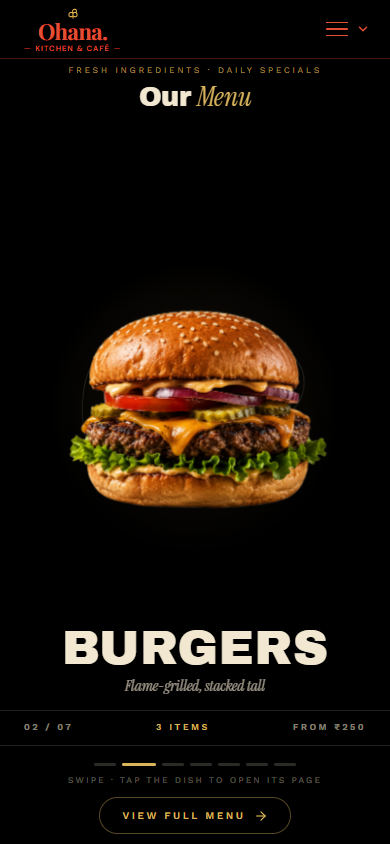
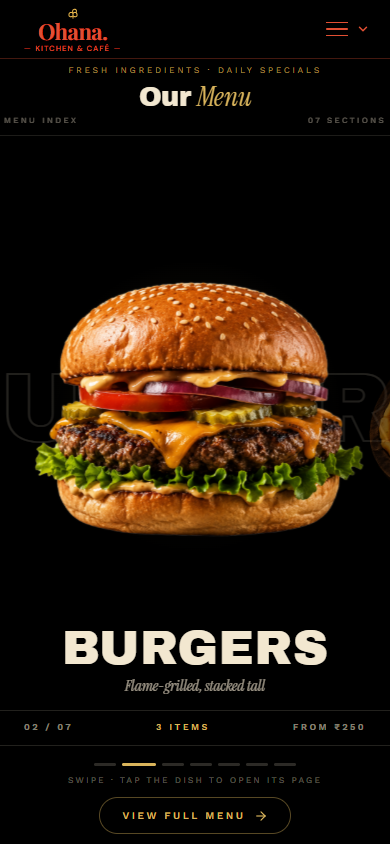
hero section snap improved

diff --git a/src/components/Hero/Hero.jsx b/src/components/Hero/Hero.jsx
@@ -212,10 +212,10 @@ export default function Hero() {
     setMIdx(clamped);
     const w = mStageRef.current?.clientWidth ?? 1;
     if (mTrackRef.current) {
-      gsap.to(mTrackRef.current, { x: trackXFor(clamped, w), rotation: 0, duration: 0.7, ease: 'expo.out' });
+      gsap.to(mTrackRef.current, { x: trackXFor(clamped, w), rotation: 0, duration: 0.6, ease: 'expo.out', overwrite: 'auto' });
     }
     if (mGhostRef.current) {
-      gsap.to(mGhostRef.current, { x: 0, duration: 0.7, ease: 'expo.out' });
+      gsap.to(mGhostRef.current, { x: 0, duration: 0.6, ease: 'expo.out', overwrite: 'auto' });
     }
     // The docked hero cup IS the coffee dish — it only steps aside
     // when the user pages away from coffee, and returns on page-back.
@@ -230,20 +230,44 @@ export default function Hero() {
   }, []);
 
   const onStageDown = (e) => {
-    mDrag.current = { down: true, startX: e.clientX, dx: 0, moved: false };
+    mDrag.current = { down: true, startX: e.clientX, startY: e.clientY, lastY: e.clientY, dx: 0, axis: null, moved: false };
+    // Keep every move event flowing to the stage even if the finger
+    // strays outside it — without this the drag stutters and snaps.
+    try { e.currentTarget.setPointerCapture(e.pointerId); } catch { /* noop */ }
   };
   const onStageMove = (e) => {
-    if (!mDrag.current.down) return;
-    const dx = e.clientX - mDrag.current.startX;
-    mDrag.current.dx = dx;
-    if (Math.abs(dx) > 8) mDrag.current.moved = true;
+    const d = mDrag.current;
+    if (!d.down) return;
+    const dx = e.clientX - d.startX;
+    const dy = e.clientY - d.startY;
+    // Axis lock: first decisive movement decides the gesture. Vertical
+    // swipes scroll the page by hand (normalizeScroll is parked while
+    // the menu is open, so nothing double-scrolls or fights the drag).
+    if (!d.axis && Math.hypot(dx, dy) > 10) {
+      d.axis = Math.abs(dx) >= Math.abs(dy) ? 'x' : 'y';
+    }
+    if (d.axis === 'y') {
+      const step = e.clientY - d.lastY;
+      d.lastY = e.clientY;
+      window.scrollBy(0, -step);
+      return;
+    }
+    if (d.axis !== 'x') return;
+    d.dx = dx;
+    if (Math.abs(dx) > 8) d.moved = true;
     const w = mStageRef.current?.clientWidth ?? 1;
     if (mTrackRef.current) {
-      gsap.set(mTrackRef.current, { x: trackXFor(mIdx, w) + dx, rotation: dx * 0.008 });
+      gsap.set(mTrackRef.current, { x: trackXFor(mIdx, w) + dx, rotation: dx * 0.004 });
     }
     // Ghost numeral trails at 35% for depth
     if (mGhostRef.current) {
       gsap.set(mGhostRef.current, { x: dx * 0.35 });
+    }
+    // The docked coffee cup hands off DURING the drag — fades out over
+    // the first quarter-width instead of lingering until release.
+    if (mIdx === 0 && mobileCupRef.current) {
+      const fadeT = Math.min(1, Math.abs(dx) / (w * 0.25));
+      gsap.set(mobileCupRef.current, { opacity: 1 - fadeT });
     }
   };
   const onStageUp = () => {
@@ -255,8 +279,11 @@ export default function Hero() {
     const w = mStageRef.current?.clientWidth ?? 1;
     const dx = mDrag.current.dx;
     let next = mIdx;
-    if (dx < -w * 0.15) next = mIdx + 1;
-    else if (dx > w * 0.15) next = mIdx - 1;
+    
+    // Require a more deliberate swipe (35% of screen width) to change items
+    if (dx < -w * 0.35) next = mIdx + 1;
+    else if (dx > w * 0.35) next = mIdx - 1;
+    
     goToIdx(next);
     // Clear the moved flag AFTER the click event has had a chance to fire
     setTimeout(() => { mDrag.current.moved = false; }, 60);
@@ -305,6 +332,7 @@ export default function Hero() {
     document.documentElement.classList.add('has-hero');
     document.body.classList.add('has-hero');
     let normalizer = null;
+    let normalizerOn = false;
     if (isMobileDevice) {
       // Kill rubber-band / elastic overscroll — prevents the whole page
       // from bouncing up before the pin registers
@@ -312,6 +340,7 @@ export default function Hero() {
       document.body.style.overscrollBehavior = 'none';
       // GSAP takes ownership of the scroll axis on touch
       normalizer = ScrollTrigger.normalizeScroll({ allowNestedScroll: true, lockAxis: false });
+      normalizerOn = true;
     }
     
     const catBar = root.querySelector('.oh4-cat-bar');
@@ -354,7 +383,7 @@ export default function Hero() {
       if (!c.h || !s.h) return; // image not decoded yet — keep fallback
       cupDelta.x = s.cx - c.cx;
       cupDelta.y = s.cy - c.cy;
-      cupDelta.scale = Math.min((s.h * 0.88) / c.h, (s.w * SLIDE_W * 0.84) / c.w);
+      cupDelta.scale = Math.min((s.h * 1.14) / c.h, (s.w * SLIDE_W * 1.1) / c.w);
     };
     measureCupTarget();
     // The cup is purely visual — never intercept taps on the stage.
@@ -441,11 +470,24 @@ export default function Hero() {
         prevProgressRef.current = p;
         scrollProgress.current = p;
 
+        // ── Park normalizeScroll while the menu owns the screen ──
+        // With the menu fully open, the normalizer's touchmove
+        // interception fights the dish-stage drag (page micro-scrolls
+        // during a swipe = the "snapping" jank). Disabled here, the
+        // stage's own axis lock handles vertical scrolls manually.
+        if (normalizer) {
+          if (p > 0.9 && normalizerOn) {
+            normalizer.disable();
+            normalizerOn = false;
+          } else if (p < 0.85 && !normalizerOn) {
+            normalizer.enable();
+            normalizerOn = true;
+          }
+        }
+
         // ── Auto-snap: forbidden zone enforcement ────────
-        // The user must NEVER rest between 5% and 95%.
-        // Any time ScrollTrigger reports progress in that range and we're
-        // not already snapping, immediately snap to the correct end.
-        if (!isSnappingRef.current && p > 0.05 && p < 0.95) {
+        // Mobile only! On desktop, we want a continuous, smooth trackpad scrub.
+        if (isMobile && !isSnappingRef.current && p > 0.05 && p < 0.95) {
           const scrollStart = self.start;
           const scrollEnd   = self.end;
           const totalRange  = scrollEnd - scrollStart;
@@ -786,10 +828,17 @@ export default function Hero() {
           >
             <div className="oh4-mstage-glow" aria-hidden="true" />
 
-            {/* Giant ghost numeral — parallaxes at 35% of drag distance */}
+            {/* Editorial ruler — frames the stage like a printed index */}
+            <div className="oh4-mstage-ruler" aria-hidden="true">
+              <span>Menu index</span>
+              <span>{String(CATEGORIES.length).padStart(2, '0')} sections</span>
+            </div>
+
+            {/* Giant outlined category word bleeding behind the dish —
+                parallaxes at 35% of drag distance */}
             <div ref={mGhostRef} className="oh4-mstage-ghost" aria-hidden="true">
-              <span key={mIdx} className="oh4-mstage-ghost-num">
-                {String(mIdx + 1).padStart(2, '0')}
+              <span key={mIdx} className="oh4-mstage-ghost-word">
+                {CATEGORIES[mIdx].name}
               </span>
             </div>
 

diff --git a/src/components/Hero/Hero.css b/src/components/Hero/Hero.css
@@ -2775,9 +2775,12 @@
     width: 100%;
     flex: 1 1 auto;
     min-height: 0;
-    margin-top: clamp(4px, 1vh, 10px);
+    margin-top: clamp(2px, 0.6vh, 6px);
     overflow: hidden;
-    touch-action: pan-y;
+    /* none (not pan-y): the browser can never hijack the gesture
+       mid-drag — vertical swipes are passed to the page scroll by
+       the axis lock in Hero.jsx instead */
+    touch-action: none;
     cursor: grab;
   }
   .oh4-mstage:active { cursor: grabbing; }
@@ -2792,7 +2795,28 @@
     pointer-events: none;
   }
 
-  /* Giant ghost numeral — parallaxes at 35% of drag distance */
+  /* Editorial ruler — hairline with edge labels framing the stage */
+  .oh4-mstage-ruler {
+    position: absolute;
+    top: 0; left: 0;
+    width: 100%;
+    display: flex;
+    justify-content: space-between;
+    padding: 0 4px 8px;
+    border-bottom: 1px solid rgba(242, 231, 208, 0.12);
+    z-index: 2;
+    pointer-events: none;
+  }
+  .oh4-mstage-ruler span {
+    font-family: 'Work Sans', sans-serif;
+    font-size: 8px;
+    letter-spacing: 0.3em;
+    text-transform: uppercase;
+    color: rgba(242, 231, 208, 0.4);
+  }
+
+  /* Giant outlined category word bleeding behind the dish —
+     parallaxes at 35% of drag distance */
   .oh4-mstage-ghost {
     position: absolute;
     inset: 0;
@@ -2802,12 +2826,14 @@
     pointer-events: none;
     will-change: transform;
   }
-  .oh4-mstage-ghost-num {
+  .oh4-mstage-ghost-word {
     font-family: 'Archivo Black', sans-serif;
-    font-size: clamp(150px, 46vw, 240px);
+    font-size: clamp(88px, 25vw, 150px);
     line-height: 1;
+    letter-spacing: 0.02em;
+    white-space: nowrap;
     color: transparent;
-    -webkit-text-stroke: 1px rgba(242, 231, 208, 0.17);
+    -webkit-text-stroke: 1.5px rgba(242, 231, 208, 0.16);
     animation: oh4-mstage-ghost-in 0.6s ease both;
   }
   @keyframes oh4-mstage-ghost-in {
@@ -2840,8 +2866,10 @@
     transform: none;
   }
   .oh4-mstage-slide img {
-    height: 94%;
-    max-width: 92%;
+    /* deliberately oversized — the dish bleeds past the slide and
+       crops against the stage, floating in front of the ghost word */
+    height: 118%;
+    max-width: 118%;
     width: auto;
     object-fit: contain;
     filter: drop-shadow(0 26px 44px rgba(0, 0, 0, 0.6));
